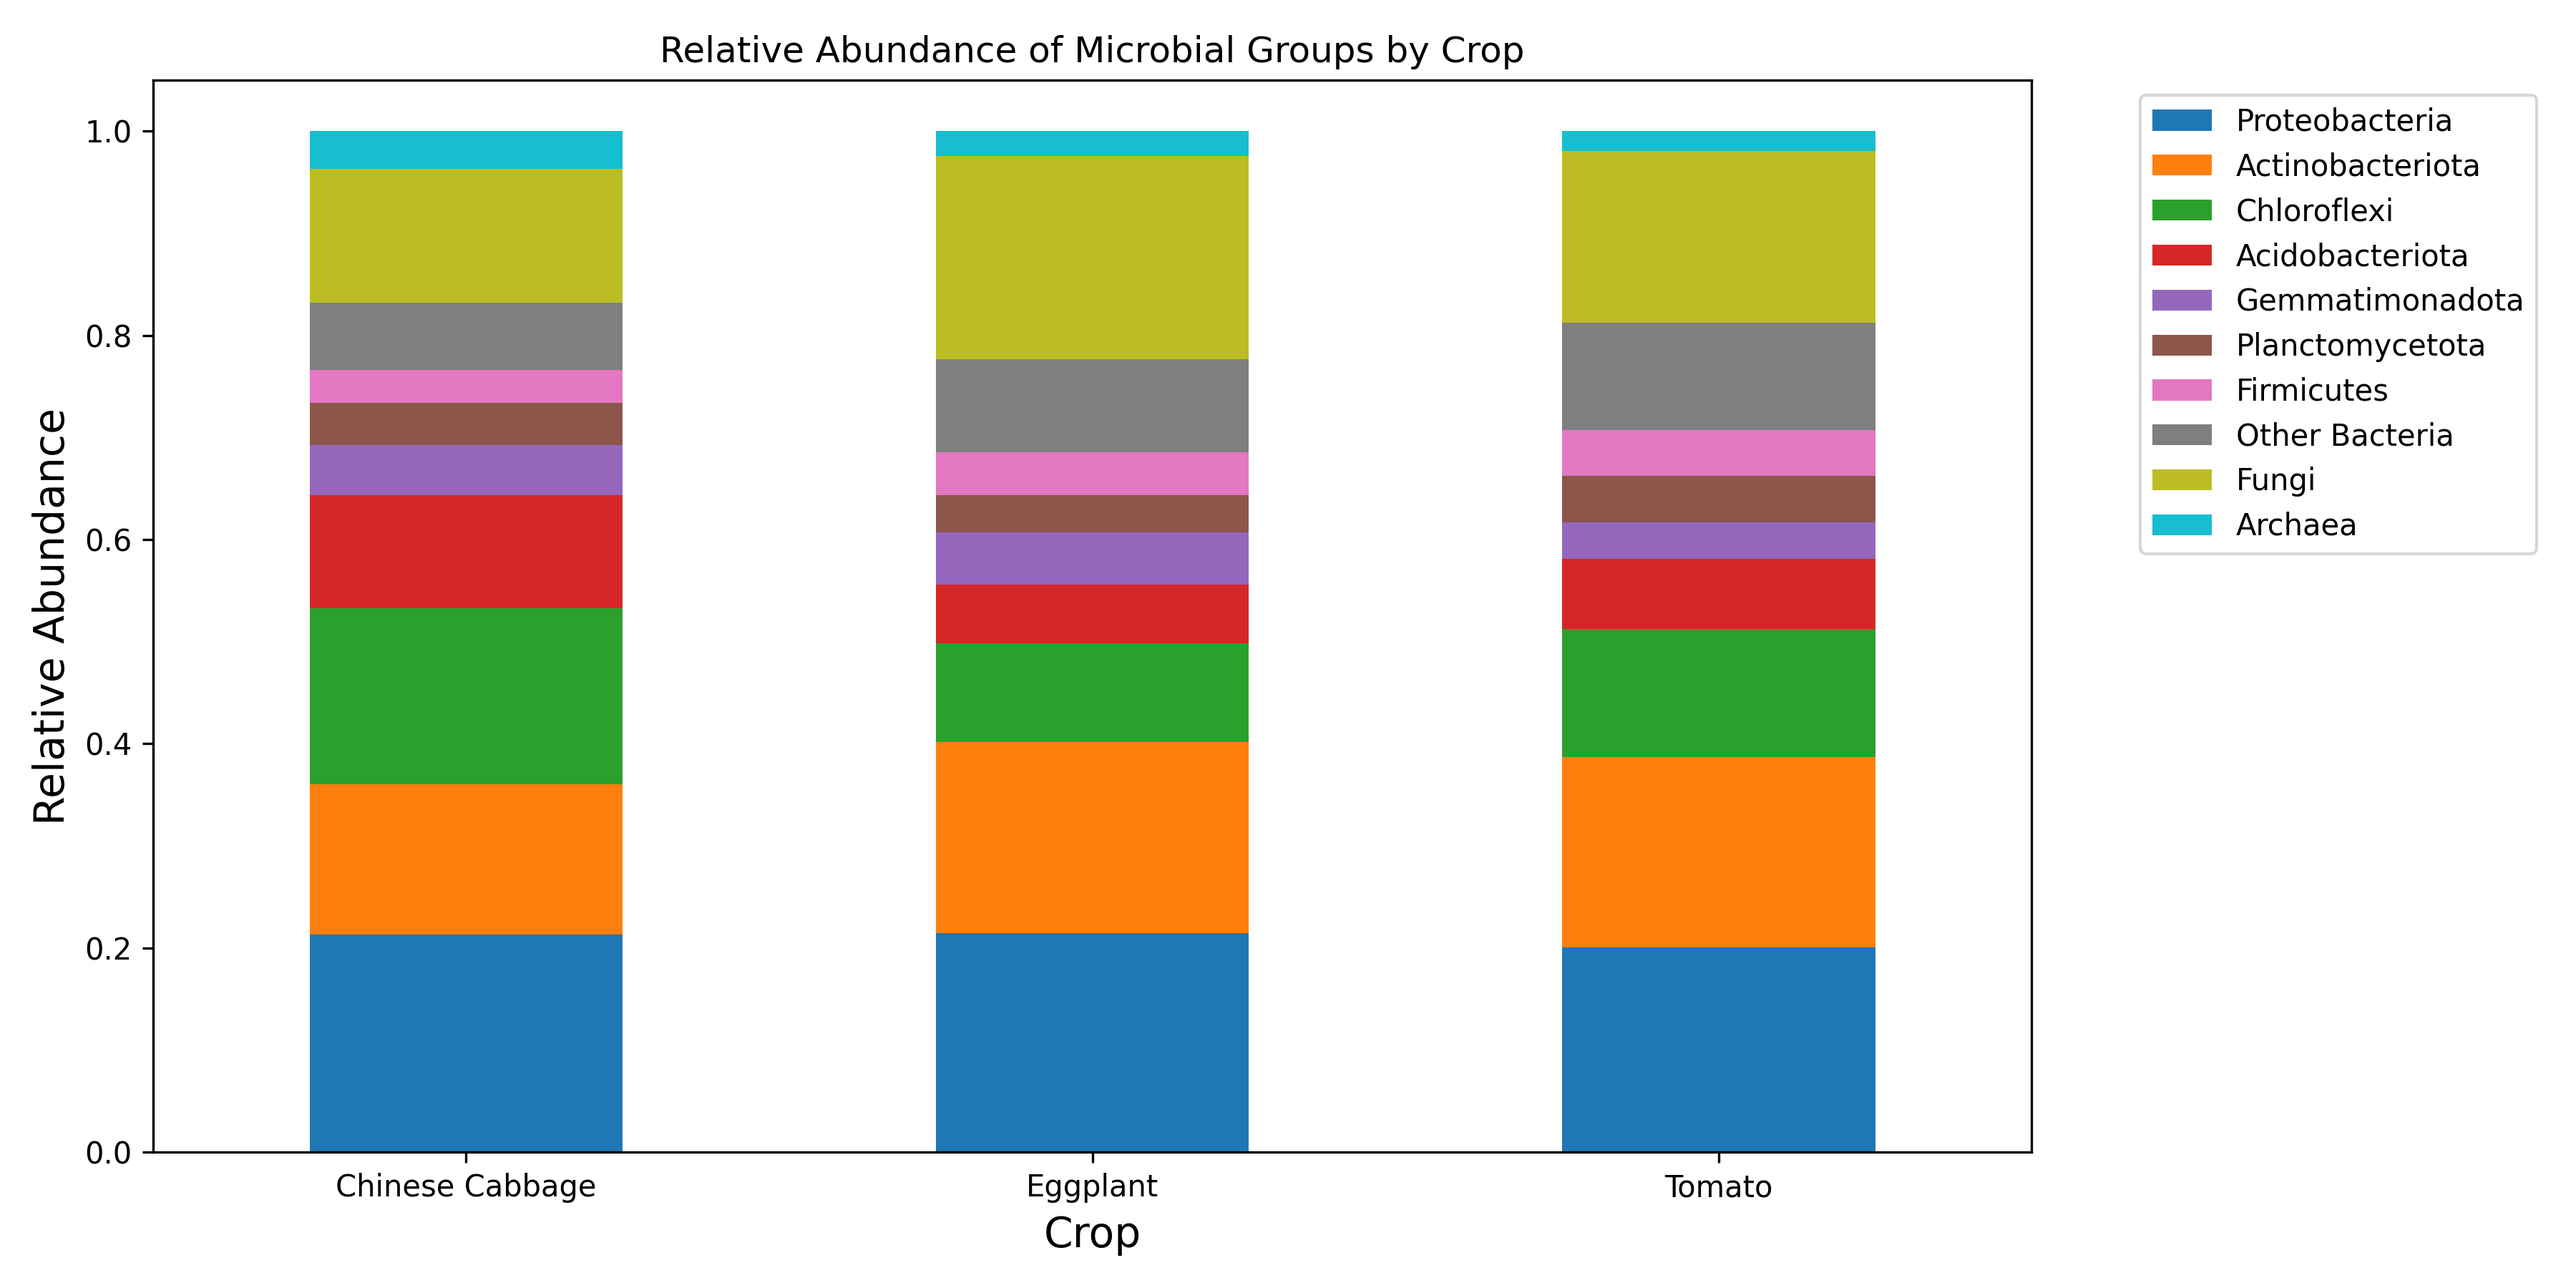
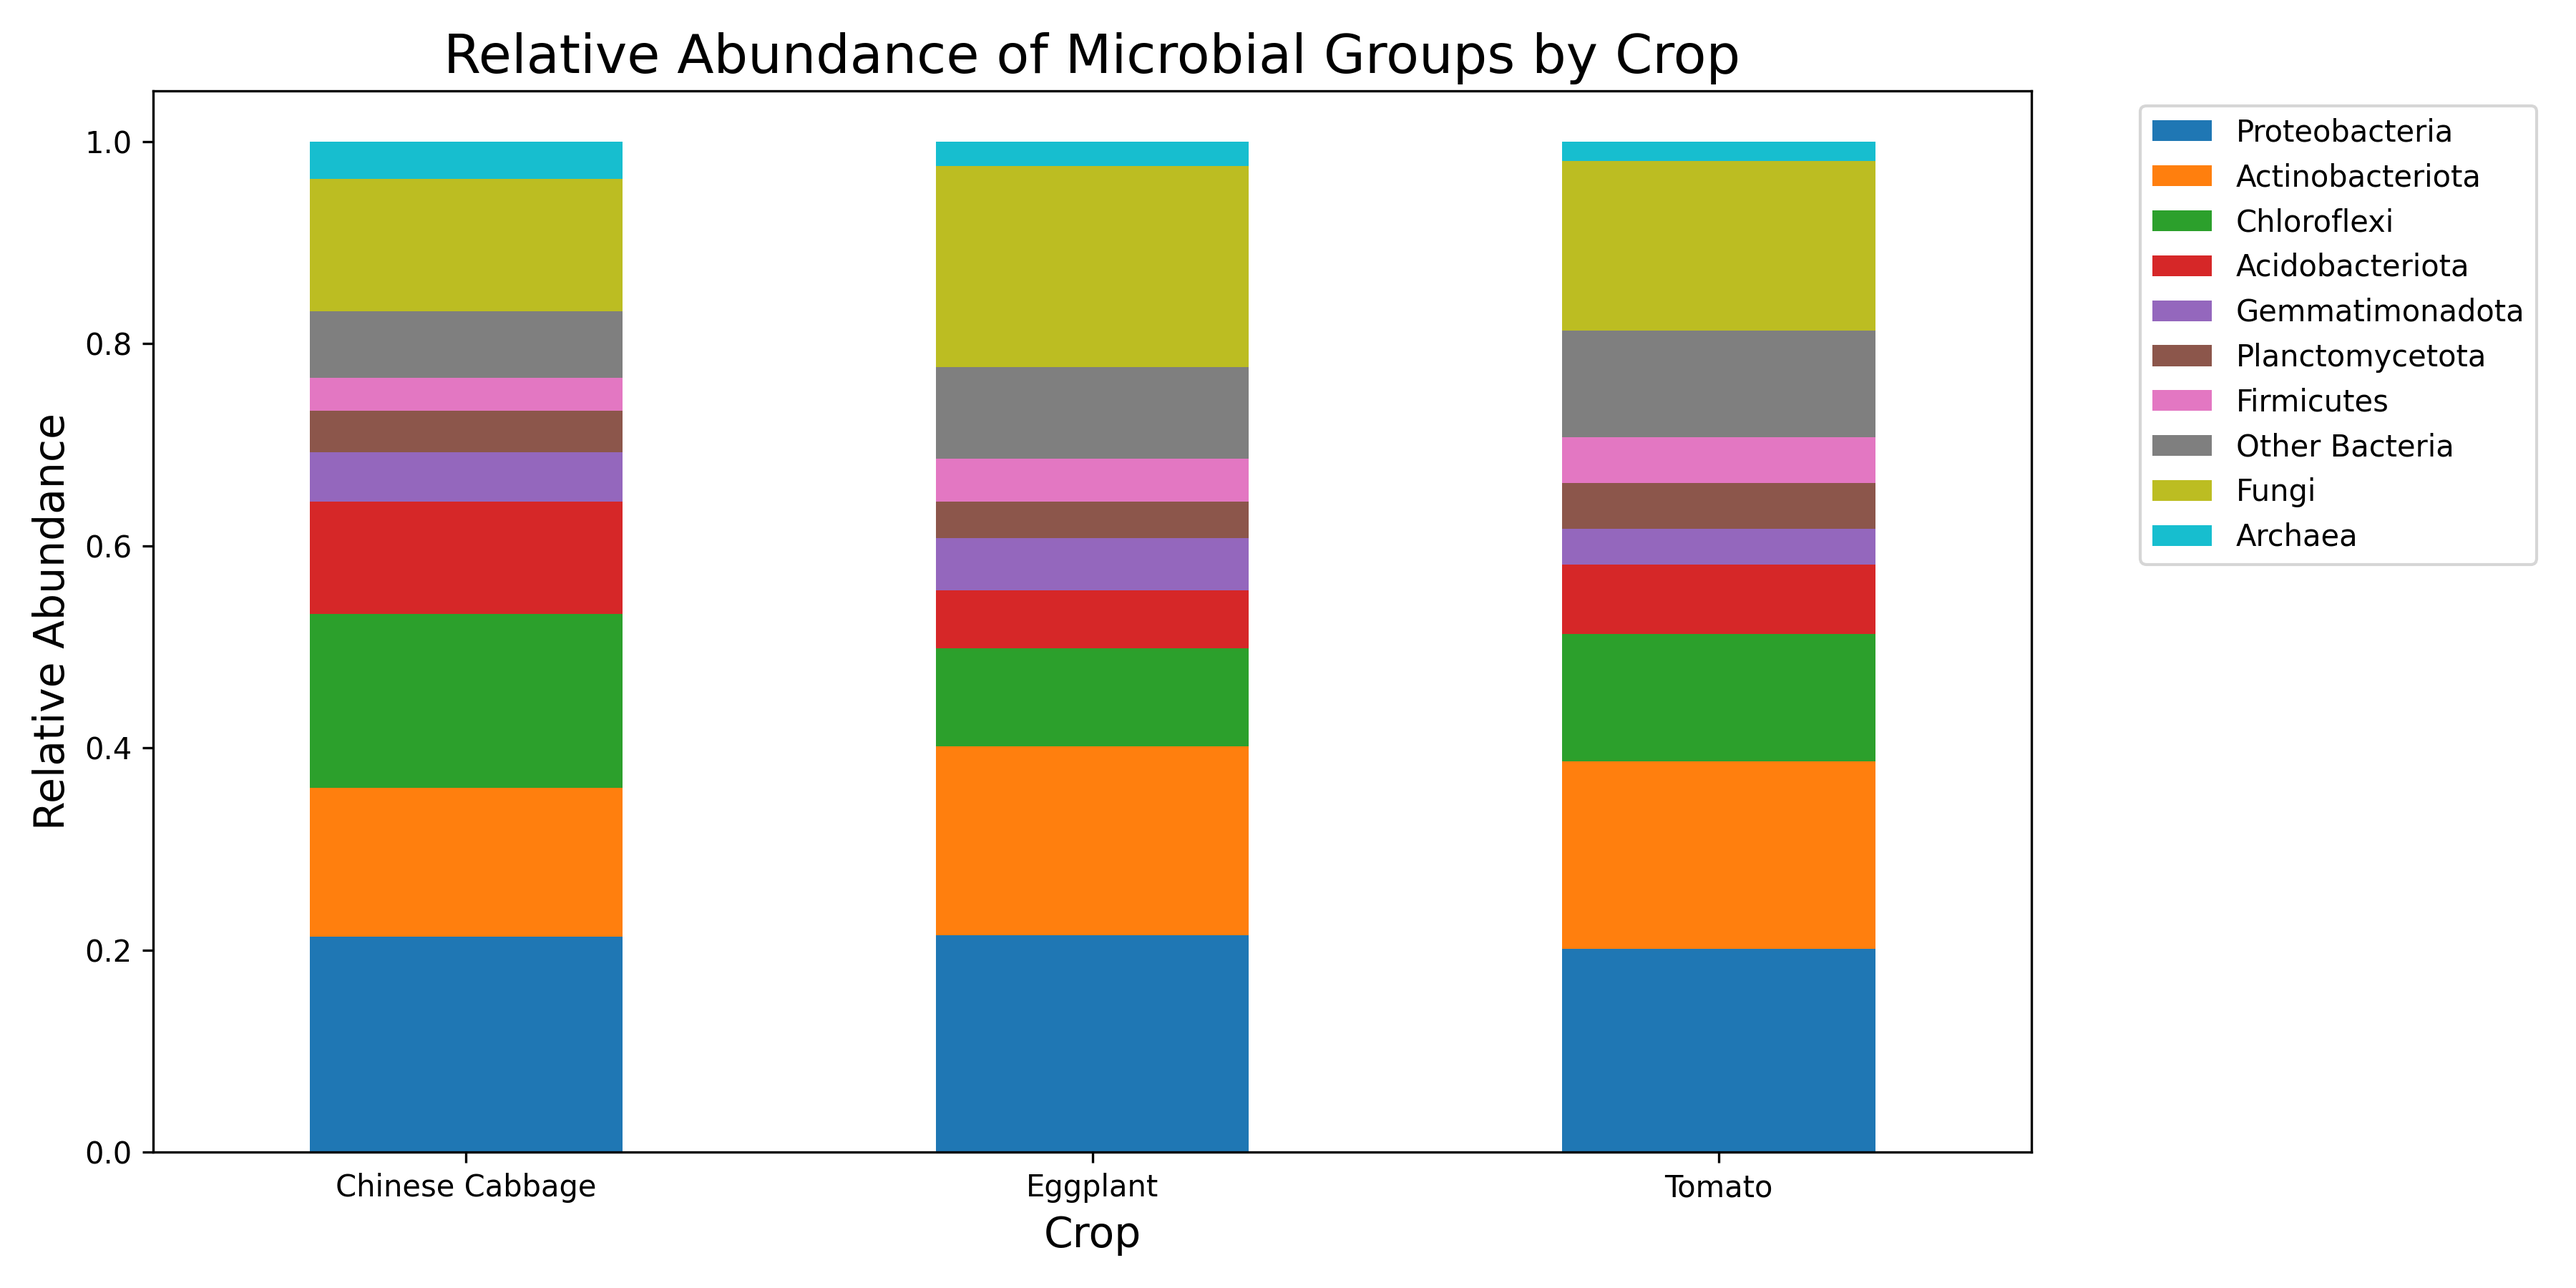
adjusting title

diff --git a/grouped_phyla_barchart.py b/grouped_phyla_barchart.py
@@ -48,7 +48,7 @@ ax = grouped_rel[available_groups].plot(
     kind="bar", stacked=True, figsize=(12, 6)
 )
 
-plt.title("Relative Abundance of Microbial Groups by Crop")
+plt.title("Relative Abundance of Microbial Groups by Crop", fontsize=18)
 plt.ylabel("Relative Abundance", fontsize=14)
 plt.xlabel("Crop", fontsize=14)
 plt.xticks(rotation=0)
